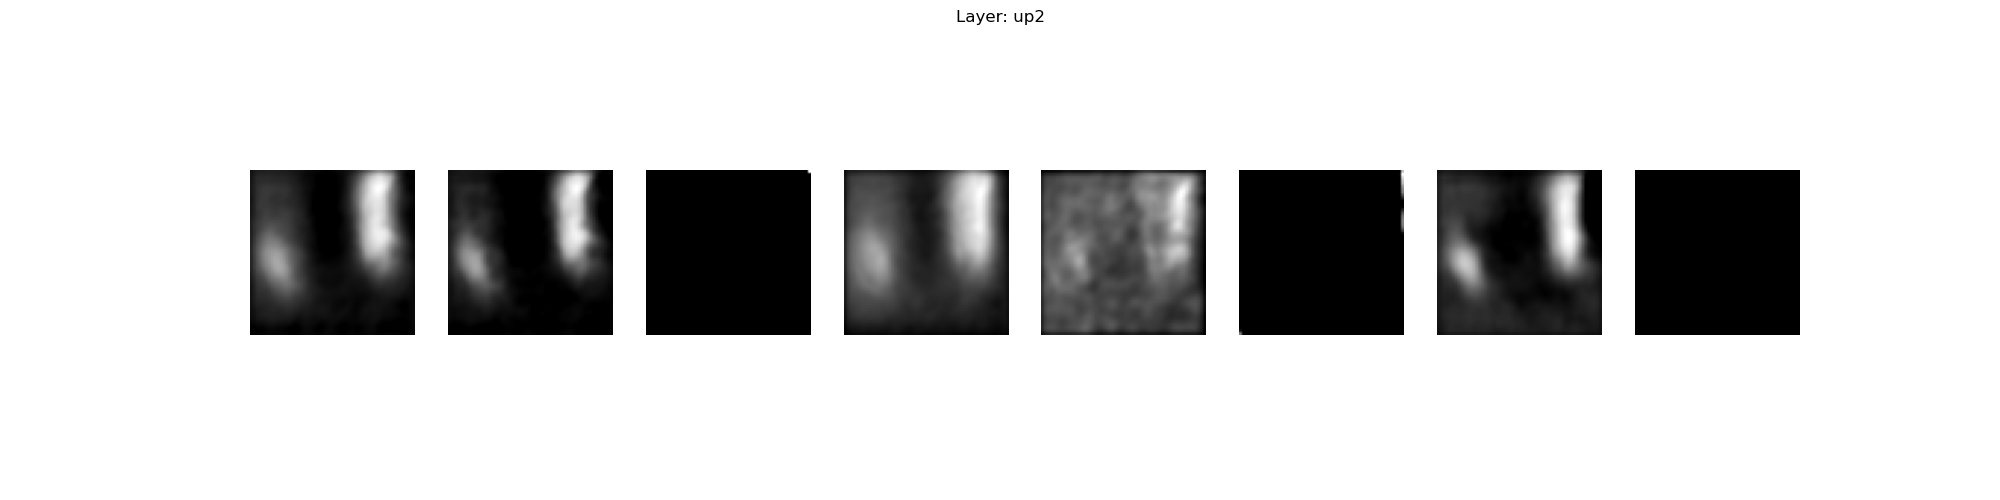
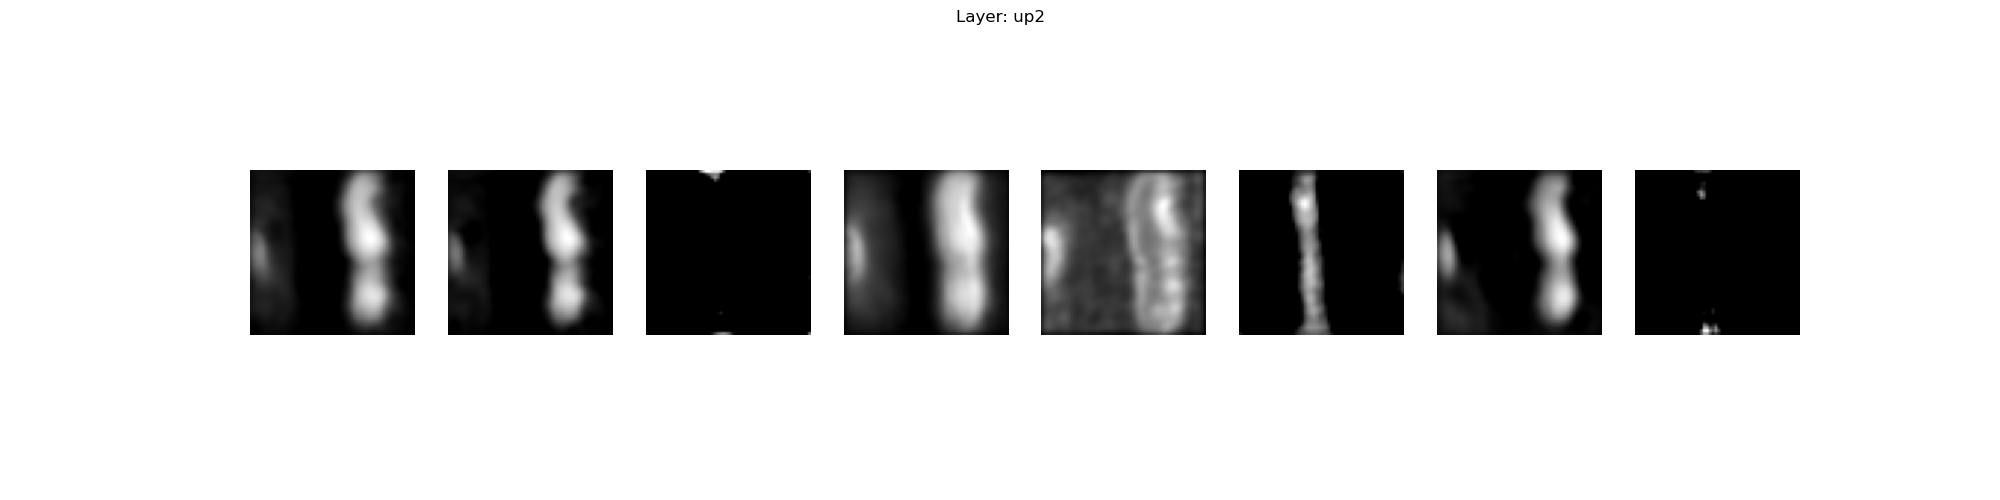
xianxia

diff --git a/inference.py b/inference.py
@@ -35,7 +35,7 @@ def inference(model, image_path, device):
         with torch.no_grad():  # 禁用梯度计算
             outputs = model(image)  # 前向传播
             # 处理二分类输出，使用sigmoid并与0.5进行阈值比较
-            predicted_mask = (torch.sigmoid(outputs) > 0.9).long().squeeze(0).squeeze(0).cpu().numpy()  # 获取二值化分割结果
+            predicted_mask = (torch.sigmoid(outputs) == 1).long().squeeze(0).squeeze(0).cpu().numpy()  # 获取二值化分割结果
 
         return predicted_mask
     except Exception as e:
